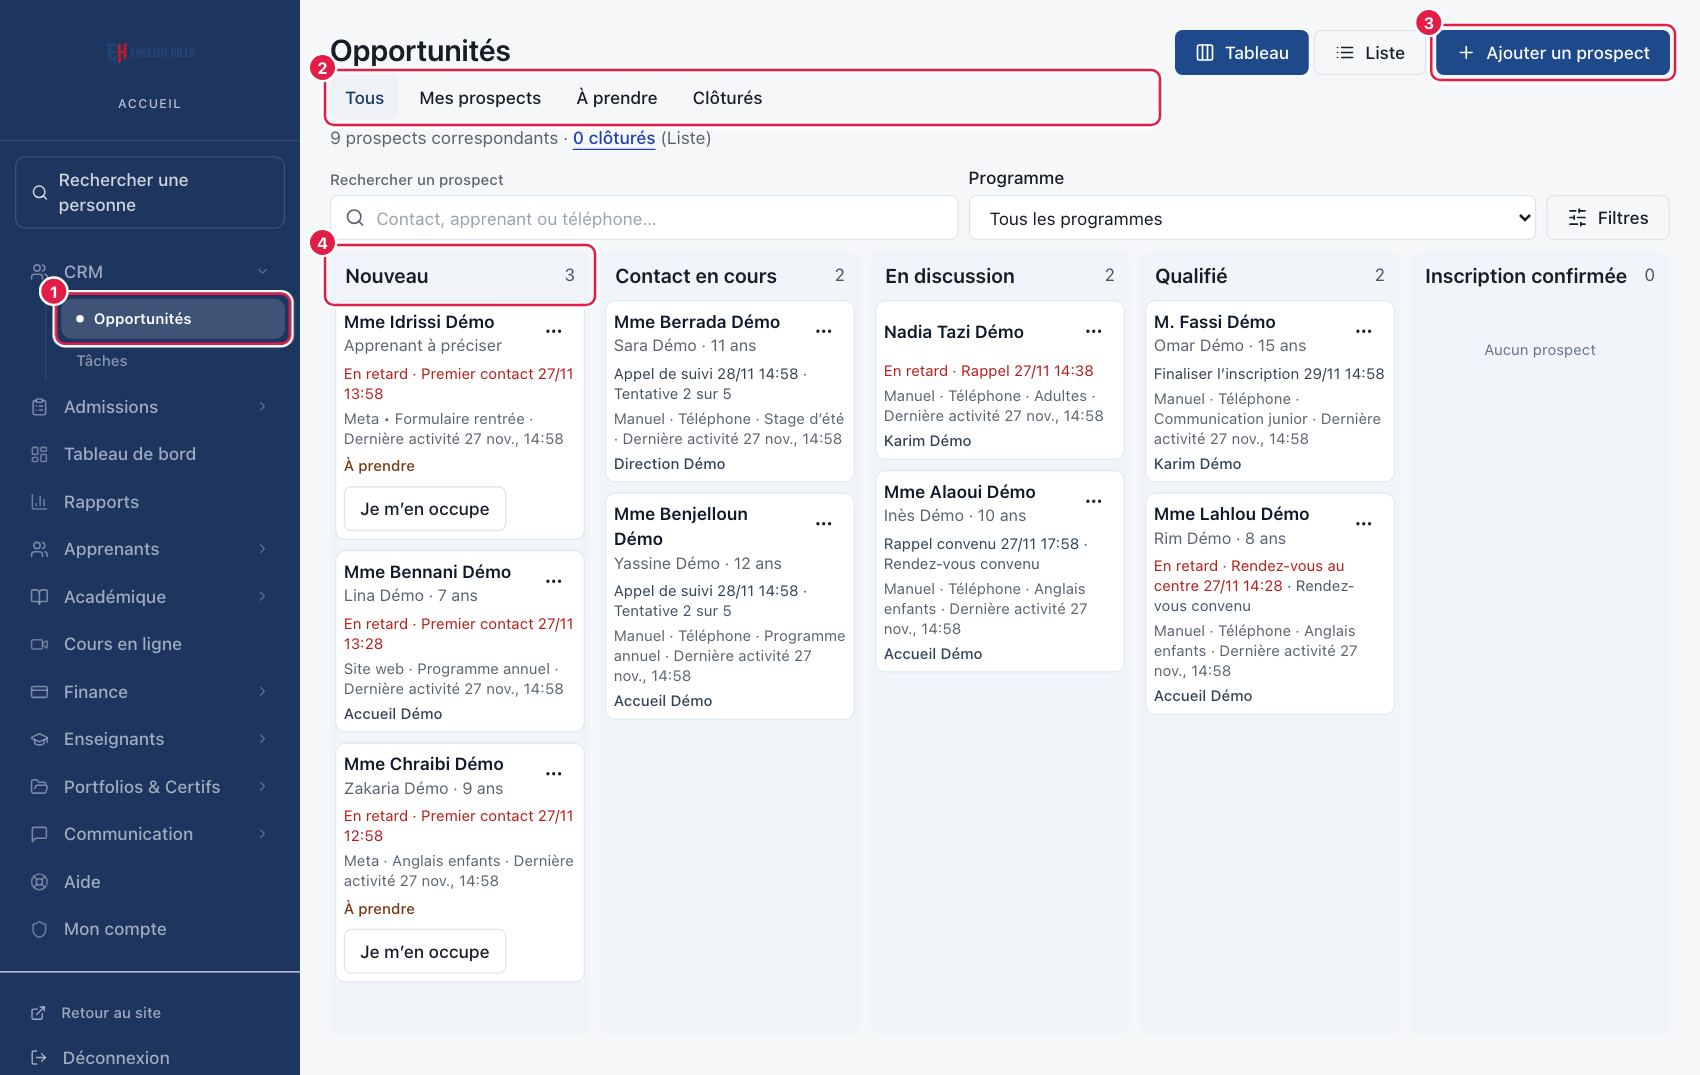
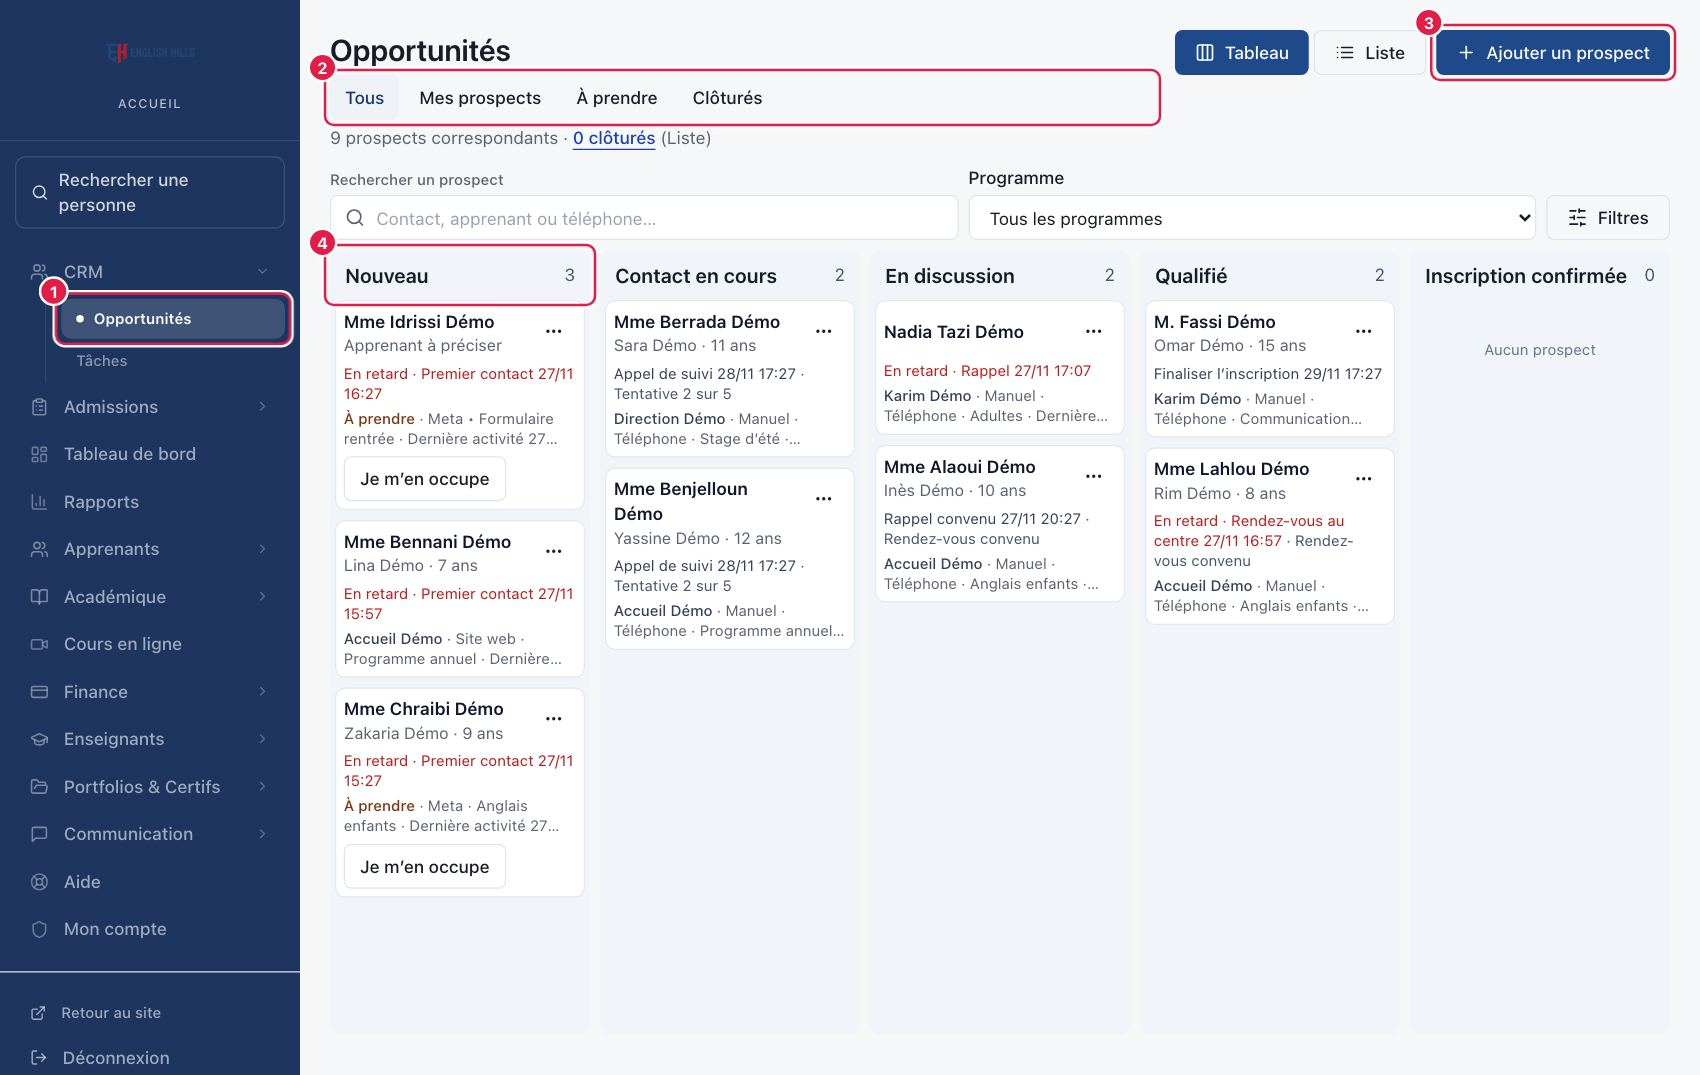
fix(crm): responsable on the card's origin line, so an ordinary card is no taller (RCC-B1 150 px unchanged); own limit for the take card
The separate owner line made the ordinary board card 162 px in WebKit at 1280 on CI.
The name now opens the origin line, capped at two lines; only « Je m'en occupe » adds
a row, checked separately (<= 192 px, and taller by that row only). The Tâches test
reloads before reading the « À prendre » counter after a behind-the-screen change.

Changed region(s): [[0.1871, 0.3377, 0.4988, 0.8902], [0.4988, 0.3377, 0.8106, 0.6753]]

diff --git a/src/components/crm/OpportunityCard.jsx b/src/components/crm/OpportunityCard.jsx
@@ -36,7 +36,9 @@ export default function OpportunityCard({ lead, onOpen, onAction, asOf, showStag
   ].filter(Boolean);
   // The programme once: « Meta • Anglais enfants » beside « Anglais enfants » reads « Meta ».
   const learner = learnerLine(lead);
-  const meta = [sourceWithoutProgramme(lead.source_label, lead.program, lead.program && programmeLabel(lead.program)) || 'Origine à préciser', lead.program && programmeLabel(lead.program), lead.last_activity_at ? `Dernière activité ${dateLabel(lead.last_activity_at)}` : 'Aucune activité'].filter(Boolean);
+  const owner = lead.owner_id ? lead.owner_display_label || 'Responsable indisponible' : active ? 'À prendre' : '';
+  const origin = [sourceWithoutProgramme(lead.source_label, lead.program, lead.program && programmeLabel(lead.program)) || 'Origine à préciser', lead.program && programmeLabel(lead.program)].filter(Boolean).join(' · ');
+  const activity = lead.last_activity_at ? `Dernière activité ${dateLabel(lead.last_activity_at)}` : 'Aucune activité';
   return <article data-testid="opportunity-card" data-lead-id={lead.id} data-stage={lead.status} draggable={active} onDragStart={e => { e.dataTransfer.setData('application/eh-opportunity', JSON.stringify({ id: lead.id, status: lead.status })); e.dataTransfer.effectAllowed = 'move'; }} className="min-w-0 rounded-lg border border-slate-200 bg-white px-1.5 py-1.5 text-sm">
     <div className="flex items-start gap-1">
       {/* One span child keeps parent and learner stacked even when the touch rule makes the button inline-flex.
@@ -47,9 +49,11 @@ export default function OpportunityCard({ lead, onOpen, onAction, asOf, showStag
     {showStage && <div className="mt-2"><LifecycleBadge status={lead.status}/></div>}
     <p className={`mt-1.5 break-words text-xs ${late ? 'text-red-700' : 'text-slate-700'}`}>{late ? 'En retard · ' : ''}{next ? next.label : lead.next_placement ? `Test de niveau · ${scheduledLabel(lead.next_placement)}` : active ? 'Prochaine action à choisir' : 'Suivi clos'}{qualifiers.length > 0 && <span className="text-slate-600"> · {qualifiers.join(' · ')}</span>}</p>
     {lead.closed_at && <p className="mt-1 text-xs">{closeReasonLabel(lead.closure_reason)} · {dateLabel(lead.closed_at)}</p>}
-    <p className="mt-1 break-words text-xs text-muted-foreground">{meta.join(' · ')}</p>
-    {/* The responsable's name, or « À prendre » with the one-tap take (CPO-r2). */}
-    {lead.owner_id ? <p data-testid="card-owner" className="mt-1 break-words text-xs font-medium text-slate-700">{lead.owner_display_label || 'Responsable indisponible'}</p>
-      : active ? <div data-testid="card-owner" className="mt-1.5 flex flex-wrap items-center gap-2"><span className="text-xs font-medium text-amber-900">À prendre</span><TakeProspectButton lead={lead} /></div> : null}
+    {/* The responsable's name, or « À prendre », opens the origin line the card already has (CPO-r2). The line is
+        capped at two lines, so the name never makes an ordinary card taller and is never the part cut: a long line
+        ends with « … » in the programme or the activity date (full text in the tooltip and the panel). Only the
+        take adds a row. */}
+    <p className="mt-1 line-clamp-2 break-words text-xs text-muted-foreground" title={[owner, origin, activity].filter(Boolean).join(' · ')}>{owner && <><span data-testid="card-owner" className={`font-medium ${lead.owner_id ? 'text-slate-700' : 'text-amber-900'}`}>{owner}</span> · </>}{origin} · {activity}</p>
+    {!lead.owner_id && active && <div data-testid="card-take" className="mt-1.5"><TakeProspectButton lead={lead} /></div>}
   </article>;
 }

diff --git a/docs/architecture/plans/crm-prospect-ownership.md b/docs/architecture/plans/crm-prospect-ownership.md
@@ -534,6 +534,8 @@ Found while reading, for the owner:
 9. **Shared code touched:** `SearchField` gets an opt-in label class; `useCrmCommand` gets two opt-in options (`onError`, `refreshOnConflict`) used only by « Je m'en occupe ».
 10. **One test harness change:** `test-crm-work-calendar-browser.mjs` no longer counts as a page error a read whose page navigated away before its body was read (the « À prendre » counter is a second read of the same function).
 11. **One WebKit keyboard step:** `test-ui-foundation-browser.mjs` presses Alt+Tab in WebKit after the phone search field. Safari's plain Tab skips buttons, and the next control is now the « Filtres » button instead of the removed « Vue » select.
+12. **The responsable's name on a board card sits on the origin line, not on a line of its own** (after CI on `ce5ebf8`: the extra line made the ordinary card 162 px in WebKit at 1280, over the RCC-B1 limit of 150 px, which is unchanged). It reads « Responsable · Origine · Programme · Dernière activité … ». That line is capped at two lines, so the name never makes an ordinary card taller than before this PR. The name comes first so that it is never the part cut: when the line is too long, it ends with « … » in the programme or the activity date (full text in the tooltip and in the panel). On a narrow board this cut also happens on cards that showed three lines there before. A card nobody has reads « À prendre » in the same place, and only its « Je m'en occupe » button adds a row. RCC-B1 now checks this card separately: at most 192 px (the ordinary 150 px plus the 6 px gap and 36 px button), and taller than an ordinary card by that row only. RCC-B1 also checks that the name is never in the part cut off. Measured locally: ordinary card 110 px in Chromium and WebKit at every board width the suite covers (without the name and the cap: 110 or 126 px); card with the button 152 px.
+13. **One Tâches test step reloads the page** after the test itself changes the database behind the screen and before it reads the « À prendre » counter. The counter's own read could still hold its earlier value; WebKit hit that once locally. The help guide's board screenshot (`s01-board.jpg`) was retaken with the names on the origin line.
 
 **Local results on the final code (private local stack, clean database, production build, 2026-11-27):** all 21 CRM and reception browser suites pass in Chromium and WebKit (Tâches, staff labels, UI foundation, Opportunités, phases 4–6, 11, RCC-A1, RCC-A2, RCC-B1, reception forms and day scripts, payment screens, people search, French labels, desk academics, mobile reception, batch 2, intake admin, receptionist); `npm test` (107 checks), `test:crm-intake`, `test:crm-lifecycle`, `test:crm-insights`, `test:navigation`, `test:crm-opportunities`, `test:crm-work-calendar`, `lint` and `build` pass; the database concurrency test passes, including the new case (two people take the same prospect at once: one owner, one refusal, one history line). GitHub Verify on the PR head is the reference.
 
